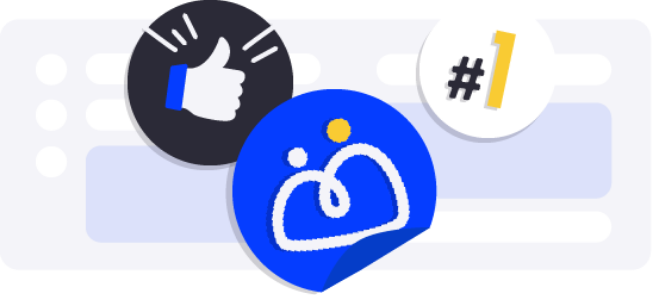
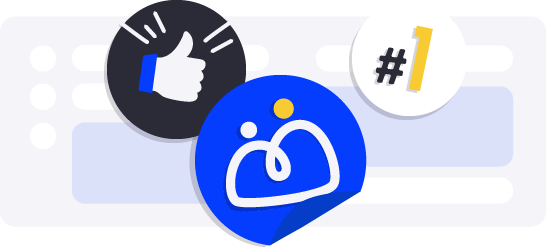
2/05 Links + adjustments pro.

diff --git a/buildr_pro.html b/buildr_pro.html
@@ -4,8 +4,8 @@
     <meta charset="UTF-8">
     <meta name="viewport" content="width=device-width, initial-scale=1.0">
     <title>Buildr. Pro</title>
+    <link rel="icon" type="image/x-icon" href="assets/buildr/buildr_logoicon_white.png">
     <link rel="stylesheet" href="bootstrap/bootstrap.min.css">
-    <link rel="stylesheet" href="bootstrap/bootstrap-reboot.min.css">
     <link rel="stylesheet" href="style.css">
     <link rel="preconnect" href="https://fonts.googleapis.com">
     <link rel="preconnect" href="https://fonts.gstatic.com" crossorigin>
@@ -155,7 +155,7 @@
                  <!-- BUILD PRO (LINKS) -->
                     <div onclick="location.href='checkoutfree.html';" class="col-xs-12 col-lg-3 px-sm-3 m-3 bg-light bshadow rounded-2 pricecard">
                         <a  href="confirmation.html"></a>
-                        <h4 class="border-bottom py-4 ">Buildr.PRO</h4>
+                        <h4 class="border-bottom py-2">Buildr.PRO</h4>
                         <p>VOORDELEN</p>
                         <ul class="fa-ul">
                             <li class="py-1"><span class="fa-li"><i class="fa-solid fa-circle-check"></i></span><a>2 vacatures per kwartaal</a></li>
@@ -167,7 +167,7 @@
 
                 <!-- BUILD PRO + / PER JAAR (MIDDEN) -->
                 <div onclick="location.href='checkout.html';" class="col-xs-12 col-lg-3 px-sm-3 bg-light bshadow mt-0 rounded-2 pricecard">
-                    <h4 class=" border-bottom py-4 ">Buildr.PRO+</h4>
+                    <h4 class=" border-bottom py-2 ">Buildr.PRO+</h4>
                     <p>VOORDELEN</p>
                     <ul class="fa-ul">
                         <li class="py-1"><span class="fa-li"><i class="fa-solid fa-circle-check"></i></span><a>Onbeperkt vacatures plaatsen</a></li>
@@ -180,7 +180,7 @@
 
                 <!-- BUILD PRO + / PER MAAND (RECHTS) -->
                 <div onclick="location.href='checkoutmonth.html';" class="col-xs-12 col-lg-3 px-sm-3 m-3 bg-light bshadow rounded-2 pricecard">
-                    <h4 class="border-bottom py-4 ">Buildr.PRO+</h4>
+                    <h4 class="border-bottom py-2 ">Buildr.PRO+</h4>
                     <p>VOORDELEN</p>
                     <ul class="fa-ul">
                         <li class="py-1"><span class="fa-li"><i class="fa-solid fa-circle-check"></i></span><a>Onbeperkt vacatures plaatsen</a></li>
@@ -196,7 +196,7 @@
 
 <!-- NIEUWSBRIEF BAR FORM -->
 
-<div class="container-fluid nieuwsbrief__box py-4 justify-content-center justify-content-md-start center  align-items-center mx-auto">
+<div class="container-fluid nieuwsbrief__box py-4 justify-content-center justify-content-md-start center align-items-center mx-auto">
     <div class="container align-items-center">
         <div class="row nieuwsbrief__bar justify-content-evenly align-items-center">
             <div class="col-12 col-md-4 nieuwsbrief__txt">

diff --git a/checkoutfree.html b/checkoutfree.html
@@ -48,7 +48,6 @@
 
 <div class="container mx-auto mt-5">
   <div class="row justify-content-around justify-content-lg-center">
-
   <div class="checkout__block col-10 col-md-4 col-lg-3 col-xl-3 p-3 h-100 rounded-3 mx-auto">
     <h4 class=" border-bottom p-2 checkout__title">Buildr.PRO+</h4>
     <p class="checkout__eyebrowtxt mt-2" >Voordelen:</p>
@@ -60,7 +59,7 @@
     <h3 class="justify-content-center mt-1 checkout__price border-top text-center py-1">Gratis</h3>
   </div>
 
-  <!-- FORMULIER BETAAL NU -->
+  <!-- FORMULIER REGISTREER -->
 
   <div class="col-10 col-md-7 col-lg-8 col-xl-7 mt-4 mt-md-0 mx-auto mb-5">
     <h2 class="checkout-form__heading text-center text-md-start mb-3">Registreer gratis.</h2>
@@ -69,23 +68,10 @@
       <input type="text" class="form-control mb-2" id="name" placeholder="Geef je naam in">
       <label for="email" class="form-label d-none"></label>
       <input type="email" class="form-control mb-3" id="email" placeholder="Geef je mailadres in">
-      <p class="checkout-form__txt" >We sturen je een link met je registratiegegevens.<br>Zo kan je je account activeren en de app installeren..</p>
-      <div class="row mx-auto mb-3">
-        <button class="col me-1 py-3 btn checkoutbtn-bank" type="button"><i class="fa-solid fa-credit-card mx-1"></i>Kaart</button>
-        <button class="col ms-1 py-3 btn checkoutbtn-apple" type="button"><i class="fab fa-apple-pay"></i> Apple Pay</button>
-      </div>
-      <div class="mb-3">
-        <label for="bank" class="form-label d-none">Kies je bank:</label>
-        <select id="bank" class="form-select" aria-label="Kies je bank:">
-          <option selected>Kies je bank</option>
-          <option value="ING">ING</option>
-          <option value="KBC">KBC</option>
-          <option value="BNP Paribas">BNP Paribas</option>
-        </select>
-      </div>
-      <a class="formulier__button" href="confirmation.html">Registreer nu</a>
     </form>
-  </div>
+      <p class="checkout-form__txt" >We sturen je een link met je registratiegegevens.<br>Zo kan je je account activeren en de app installeren.</p>
+      <a class="formulier__button" href="confirmation.html">Registreer nu</a>
+    </div>
   </div>
 </div>
 

diff --git a/index.html b/index.html
@@ -135,7 +135,7 @@
 
     <div class="container my-2 mx-auto">
         <div class="row justify-content-center align-items-center">
-            <div class="col-10"><img class="img-fluid" src="assets/home_mockupgroup.png" alt="Groep mockups van Buildr"></div>
+            <div class="col-10"><img class="img-fluid home-mockups__img" src="assets/home_mockupgroup.png" alt="Groep mockups van Buildr"></div>
         </div>
     </div>
 
@@ -144,7 +144,7 @@
     <div class="container-fluid mx-auto home-ontdek__block ">
         <div class="row home-content__block">
             <div class="col-md-6">
-                <img class="home-ontdek__logo img-fluid"  src="assets/buildr/PRO/Prologo_naam_buildrwit.png">
+                <img class="home-ontdek__logo img-fluid" src="assets/buildr/PRO/Prologo_naam_buildrwit.png">
                 <p class="home-ontdek__tekst">Ondernemingen hebben via onze app toegang tot al hun interacties met kandidaten. We bieden een overzichtelijke tool die je makkelijk in staat stelt te zien met wie je contact hebt, en wat de status is van een potentiële kandidatuur.</p>
                 <a class="home-ontdek__knop bshadow" href="buildr_pro.html">Ontdek meer</a>
             </div>

diff --git a/style.css b/style.css
@@ -93,7 +93,8 @@
     font-weight: 400;
     font-size: 1.2rem;
 }
-.home-hero__img {
+.home-hero__img,
+.home-mockups__img {
     filter: drop-shadow(5px 5px 5px rgba(0,0,0, 0.4));
 }
 
@@ -275,7 +276,7 @@
 }
 
 .fa-ul {
-    height: 100px;
+    height: 140px;
 }
 
 /* --- CHECKOUT PAGE --- */
